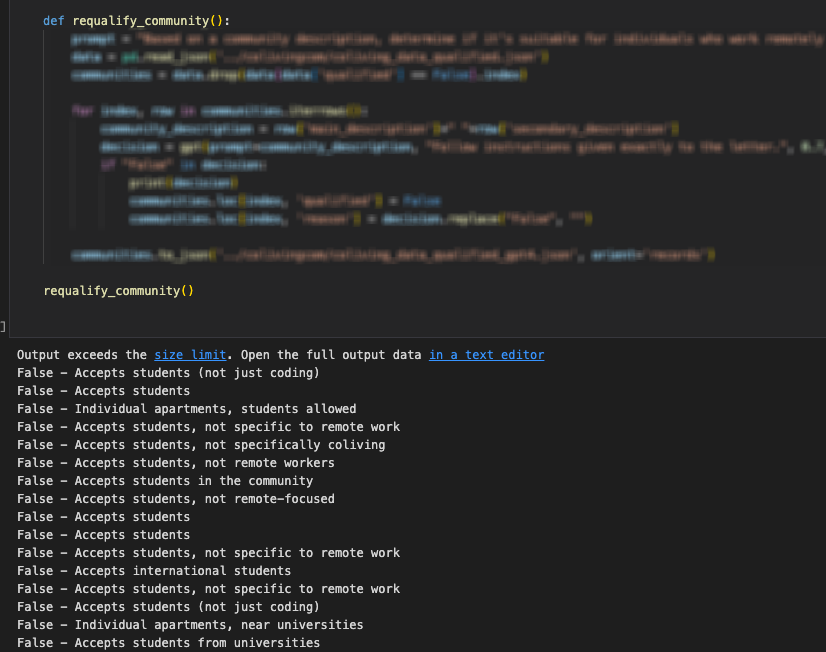
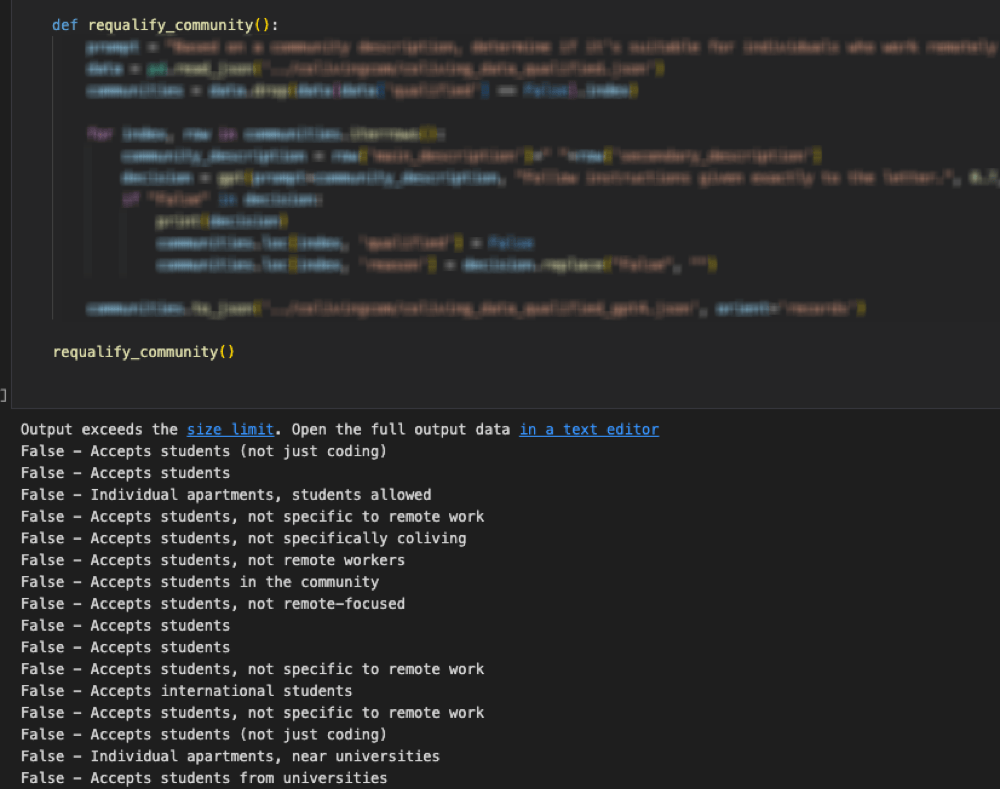
new articles

diff --git a/assets/css/post.css b/assets/css/post.css
@@ -159,6 +159,7 @@ main {
 .content img {
   max-width: 100%;
   margin: 1rem 0;
+  border-radius: 12px;
 }
 .content img.emoji {
 	margin: 0 !important;

diff --git a/all_collections/_posts/2024-12-16-shutting-down-colive-values.md b/all_collections/_posts/2024-12-16-shutting-down-colive-values.md
@@ -1,0 +1,115 @@
+---
+layout: post
+title: after 19,314 lines of code, i'm shutting down my coliving platform
+date: 2024-12-16
+categories: ["coliving", "remote work", "personal growth"]
+description: learnings from building colive values as a solo developer
+feature_image: "/assets/img/article_imgs/colive-values-banner.png"
+feature_image_position: "0"
+reading_time: 5
+---
+
+![colive values banner](/assets/img/article_imgs/shutting-down-colive/cover.webp)
+
+**After 12 months of work and 19,314 lines of code, I’m shutting down colive values**. 
+
+When I started colive values, I was on a mission to revolutionize how remote workers choose to travel and work from remote communities. Shutting it down wasn't the outcome I envisioned, but this journey has been incredibly valuable. 
+
+In this article, I'll explain the full story, and focus on the key lessons learned that might help others avoid similar pitfalls.
+
+Whether you’re curious about building your own project, interested building something within the coliving industry, or maybe even someone looking to build colive values 2.0, there’s something here for you.
+
+# The Vision
+
+I created colive values to solve a pressing problem: helping remote workers combat social isolation by connecting them with like-minded communities. 
+
+I'll likely put a more detailed article on the vision and the problem I was trying to solve in the future. But for now, here's a quick summary:
+
+The coliving space was (and still is) fragmented, with communities scattered across the web, lacking crucial information about essentials that remote workers care about such as Wi-Fi speeds, the community culture, or the location details, to list a few.
+
+My solution? Create the ultimate platform of remote work-friendly coliving spaces, categorized in a way that matters to remote workers. (By community values, amenities available, and the location characteristics.)
+
+Some of the fragmented mess of finding a coliving. The sources varied across Google Sheets, Reddit, Twitter threads, random lists, and more:
+![the mess of finding a coliving](/assets/img/article_imgs/shutting-down-colive/coliving-mess.webp)
+
+# What Worked Well
+
+### Finding an Edge in a Crowded Market
+
+Building a marketplace is notoriously difficult - you need both supply (coliving hosts) and demand (remote workers) to create value. I knew I needed a creative approach to crack this chicken-and-egg problem.
+
+My edge came from two creative solutions:
+
+1. **Web Scraping at Scale**: Instead of chasing hosts one by one, I built scrapers to aggregate coliving communities automatically. This came with its own challenges - including legal threats from major players in the space - but it helped us build initial inventory quickly.
+2. **Early AI Integration**: Before ChatGPT became household name, I was already leveraging Language Models to categorize communities, analyze reviews, and even assist with development. My background in AI gave me a head start in utilizing these tools effectively.
+
+This worked well (besides the lawsuit scare 😅) at getting things started. Although hosts were initially skeptical, most were willing to give colive values a shot especially because I’d only reach out after we’ve already secured an interested guest looking to give them their money.
+
+Community classification in action:
+![Community classification in action](/assets/img/article_imgs/gpt4-in-action.webp)
+
+### Engaging with Users
+
+You’ve heard the advice to talk to users often and early, and I won’t go into the obvious details on the importance of user testing, the MOM test, and all that other good stuff. I do have two main points related to this:
+
+#### 1. Get an MVP out FAST
+
+Getting something out quickly was crucial. Instead of perfecting features, I focused on launching a basic platform that demonstrated the core value proposition. This allowed me to start gathering feedback immediately and allowed me to gain momentum to keep building. It wouldn’t have been possible to continue building on the platform without this early feedback.
+
+colive values MVP:
+![colive values live](/assets/img/article_imgs/shutting-down-colive/colive-values-view.webp)
+
+#### 2. Use social channels
+
+Some of our best insights came from engaging directly with our target audience. Reddit posts, Slack channels, and other social platforms provided invaluable feedback and early user interest. The enthusiasm from these communities kept me motivated during tough times.
+
+Users validating the idea keep you going:
+![Users validating the idea](/assets/img/article_imgs//shutting-down-colive/reddit-validation-2.webp)
+![Users validating the idea](/assets/img/article_imgs//shutting-down-colive/reddit-validation.webp)
+
+# Where Things Went Wrong
+
+### Organizational Chaos
+
+As the project grew, so did the complexity of managing it. I was juggling multiple communication channels:
+
+- User booking support
+- Host onboarding and booking support
+- User acquisition
+- Community management
+- Industry networking
+
+Without proper systems in place, this became overwhelming for a small team.
+
+### Underestimating Scope
+
+While the "don't look too far ahead or you’ll never start anything" start-up advice has merit, I perhaps took it too literally. I went into building colive values a bit too blindly, choosing to ignore the sheer magnitude of work required to successfully pull this project off.
+
+Beyond the communication parts we covered above, the platform also needed:
+
+- Constant new features
+- Technical maintenance
+- Billing management and oversight
+- Community building
+
+This was simply too much for a part-time founder to handle effectively.
+
+## The Decision to Shut Down
+
+The final decision came down to simple math and personal priorities. The economics of colive values weren't strong enough to justify going all-in. Without external funding (which I wasn't keen on pursuing), the bootstrap path wasn't viable. I was also finding fulfillment in my full-time role and this project wasn’t one that could stay on the side-burner and needed active maintenance to be useful. 
+
+## Lessons for Future Founders
+
+1. **Be realistic about resource requirements**: In any business, make sure you have the resources (time, money, people) to tackle the market effectively.
+2. **Consider funding strategy upfront**: Some ideas are better suited for bootstrapping than others. Be honest about whether your concept needs venture backing to succeed.
+3. **Technical innovation isn't enough**: Having a technical edge is great, but it needs to be paired with sustainable operations and growth strategies.
+
+## Looking Forward
+
+While colive values is shutting down, the experience has been invaluable. Writing almost 20k lines of code, in a project where shipping every feature was a new learning experience, came with huge set of technical learning.
+
+Further, growing the brand from zero provided me with experience in branding, design, and growth marketing that I couldn’t have learned in any other way. 
+
+Most importantly, I've learned crucial lessons about what it takes to build a sustainable business. I’ll be taking these learnings for my next adventure. 
+
+Stay tuned for my next venture - this time with a more focused scope and clearer path to sustainability. Sometimes the best way forward is to know when to let go and apply your learnings to the next opportunity. That's exactly what I plan to do.

diff --git a/all_collections/_posts/2024-09-30-building-colive-values.md b/all_collections/_posts/2024-09-30-building-colive-values.md
@@ -1,0 +1,92 @@
+---
+layout: post
+title: i built an Airbnb as a solo developer, here are 3 lessons I learned
+date: 2024-07-20
+categories: ["coliving", "remote work", "personal growth"]
+description: What I Learned Building colive values from Scratch as a Solo Developer
+feature_image: "/assets/img/article_imgs/colive-values-banner.png"
+feature_image_position: "0"
+reading_time: 3
+---
+
+![colive values](/assets/img/article_imgs/colive-values.png)
+### preface: where the idea came from
+
+When I first started thinking about [colive values](https://colivevalues.com), I wasn’t looking for a simple side project to tinker with. This was my first project with quite an ambitious goal: 
+> To create a new way for remote workers to find like-minded coliving communities
+
+—a platform that highlights community values, shared intentions, and authentic culture.
+
+The idea *seemed* fairly simple at the time: build a platform to search and book coliving communities...
+
+As it turns out, this was more complex than I could have imagined. The realization of how big of an undertaking this was became clear as I started drawing up the first data models and their relationships. 
+
+> I remember slowly realizing  I was essentially rebuilding an Airbnb, as a solo developer.
+
+What followed was an intense journey of learning and building everything from the ground up. 
+
+Since then I've come fairly far and learned quite a lot along the way. 
+
+Here are the three biggest lessons I've learned so far:
+
+### 1. Narrow the Scope, Then Narrow It Some More
+
+I set out with the goal of competing with companies that had been in the game for over a decade. Looking back, that was probably my first mistake. The sheer amount of work required to build anything competitive, let alone a marketplace which came with its own challenges, was likely too ambitious for a self-funded solopreneur.
+
+At first it was straightforward: design a system with community listings and self-serve functionality for both Users and Hosts. Fair. 
+
+Of course, search functionality is also critical—map views, complex filters, sorting algorithms, and a sleek UI were table stakes. Difficult, but still doable.
+
+Then came payments. A robust payment system is essential if I want to make any money. But as great as Stripe is, it still comes with its own set of complexities: webhooks, payment intents, invoices, and checkout flows. And when you're handling people's money there is no room for mistakes.
+
+Building a user-friendly app isn’t just about getting the core functionality right. Every small detail in the UI/UX matters. One misstep—a button that doesn’t work as expected, a confusing flow—and it ruins the entire experience. Users have very little patience these days, they expect things to come easy.
+
+The list of "essential" features kept growing. Every time I crossed off a new feature, three more would pop up that would "really complete the experience". 
+
+This is why making every effort to narrow your scope, especially in the beginning the scope isn’t just important—it’s essential. 
+
+> Looking back I should have stopped to **re-evaluate what's needed to accomplish my mission**, not my ever expanding idea of the solution.
+
+i.e. What's needed to (help remote workers find like-minded communities)<- Mission, not (to build a full platform to find and book coliving communities) <- Ever-expanding idea.
+
+My takeaway? Minimize the number of features, but maximize the depth of each one. It’s better to do fewer things well than to attempt everything and deliver a half-baked product. 
+
+### 2. Building Trust Is Harder Than Coding
+
+Here’s the truth: building something that works is relatively easy. Getting people to trust and use it? Tough.
+
+As a new product, you have a lot to prove. 
+
+> Your users need to find you so much better than the competition that they're willing to leave the familiarity of established platforms just to work with you.
+
+What may have been the most frustrating part of colive values was something that happened fairly often. After a user has submitted a booking request to stay at a community, the host would not respond! It felt like a punch to the gut to have a user make it through all the hoops of registration, discovery, meddling around, and finally go through with a booking, only for the Host to go completely silent...
+
+The main reason for this was because I didn't develop a strong enough connection with each host when they joined. I hoped they'd be just as excited about a booking request as I was. But they hardly knew if they could even trust this lead.
+
+The solution I found was keeping things very personal and over-explaining everything. Sending a video to a host explaining the process became a normal occurrence. 
+
+Lesson learned: Introduce yourself well, and stay connected to your users. Also be very clear. If users have to ask, “How does this work?” then you’ve already lost them.
+
+### 3. Market Really, Really Hard
+
+If I could sum up self-funded marketing in one word: *grind*. Once you've built the app, you need people to care about it. That’s the real challenge. Without a pile of venture capital to throw at ads or partnerships, you have to rely on old-school, guerilla tactics. 
+
+Reddit threads, Twitter posts, niche forums— these become your lifeline for spreading the word.
+
+here's the catch: manual marketing like that never stops. It’s relentless. You can’t just post once and expect people to flood in. You have to keep going until you reach critical mass, and only then might it start to spread organically - if you're lucky.
+
+The reality is, as a self-funded solo developer, marketing becomes a full-time job on top of building your product.
+
+---
+
+### Final Thoughts
+
+Building colive values taught me a lot, but the most important lesson was probably this: as a solo developer, you’re not just writing code. You’re wearing every hat—developer, designer, marketer, and customer support. It’s overwhelming, but it’s also incredibly rewarding when you see people start to use and appreciate what you’ve built.
+
+So, what’s next for colive values?
+
+I can't keep running/building colive values as it stands.
+
+Going forward, I'll be focused on narrowing the scope while staying true to its mission. 
+
+One thing is clear: it’s not about doing it all. It’s about doing what matters—and doing it right.